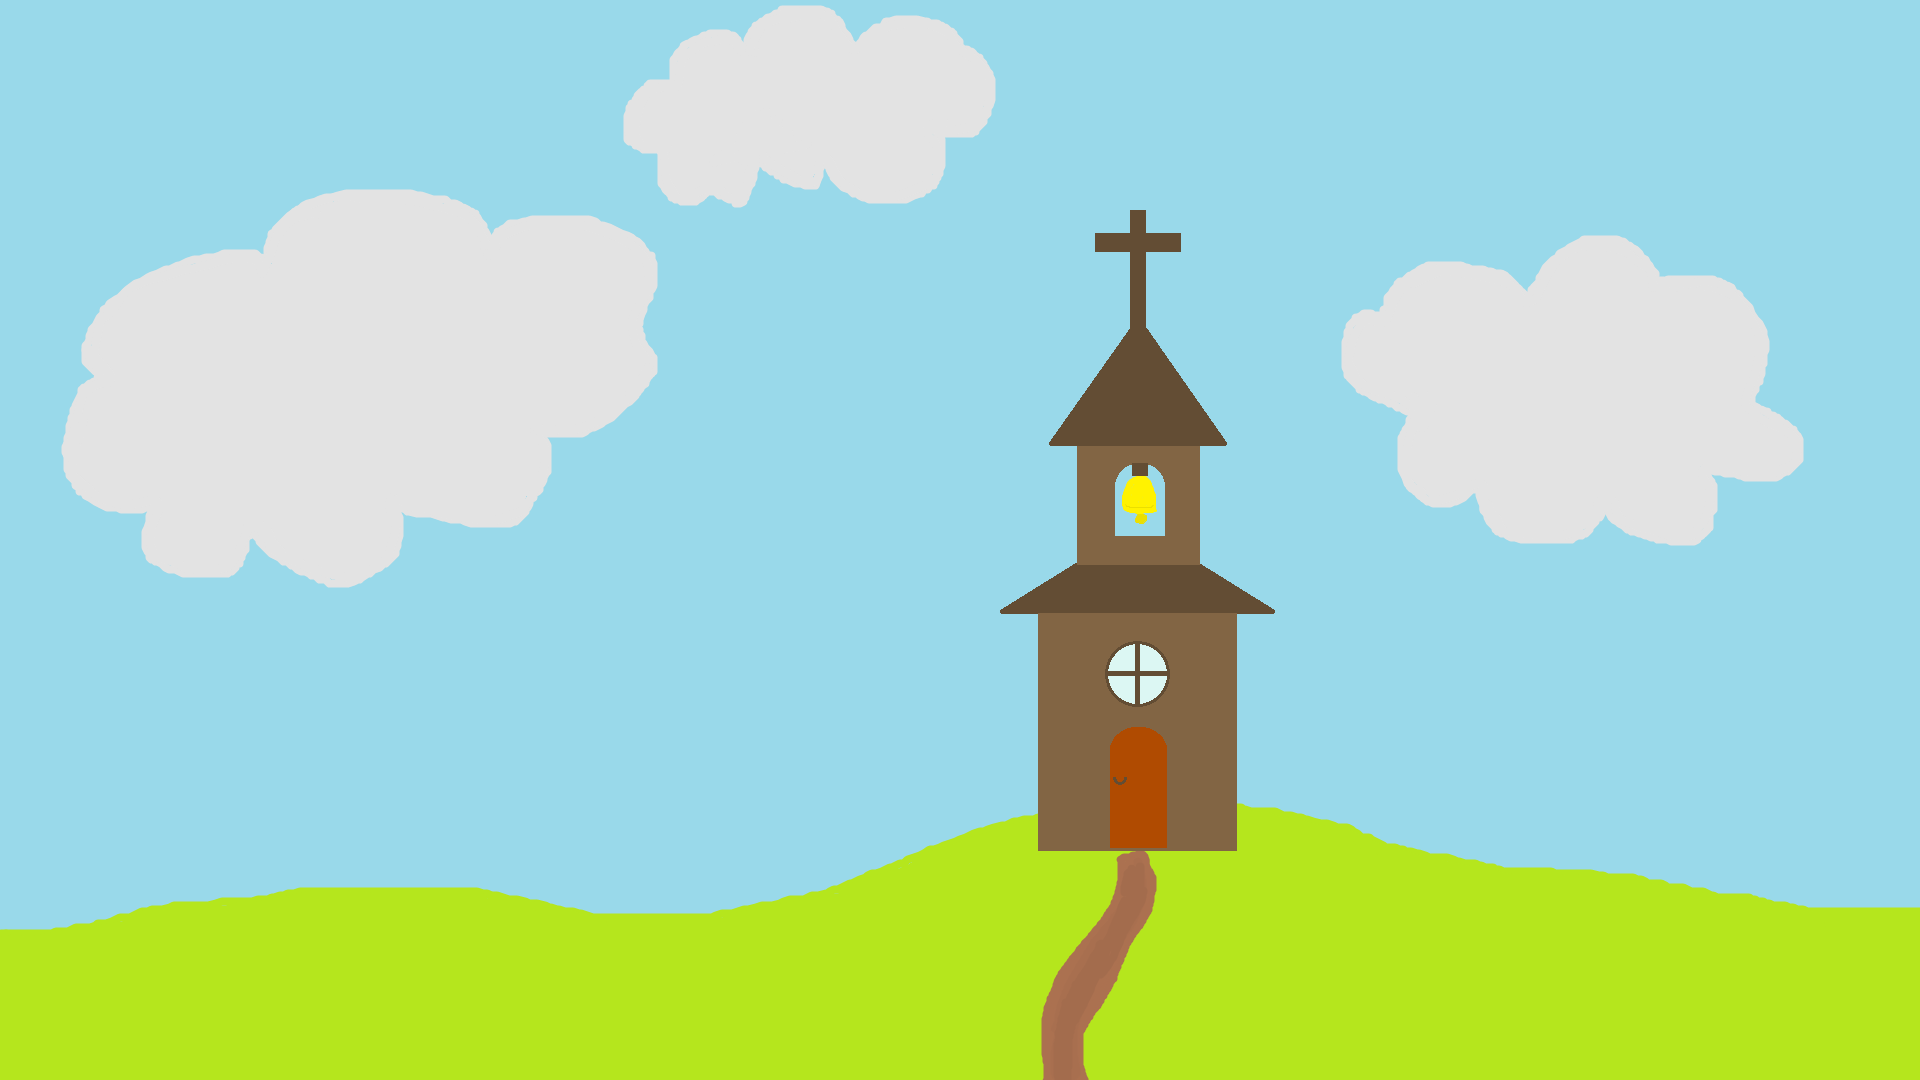
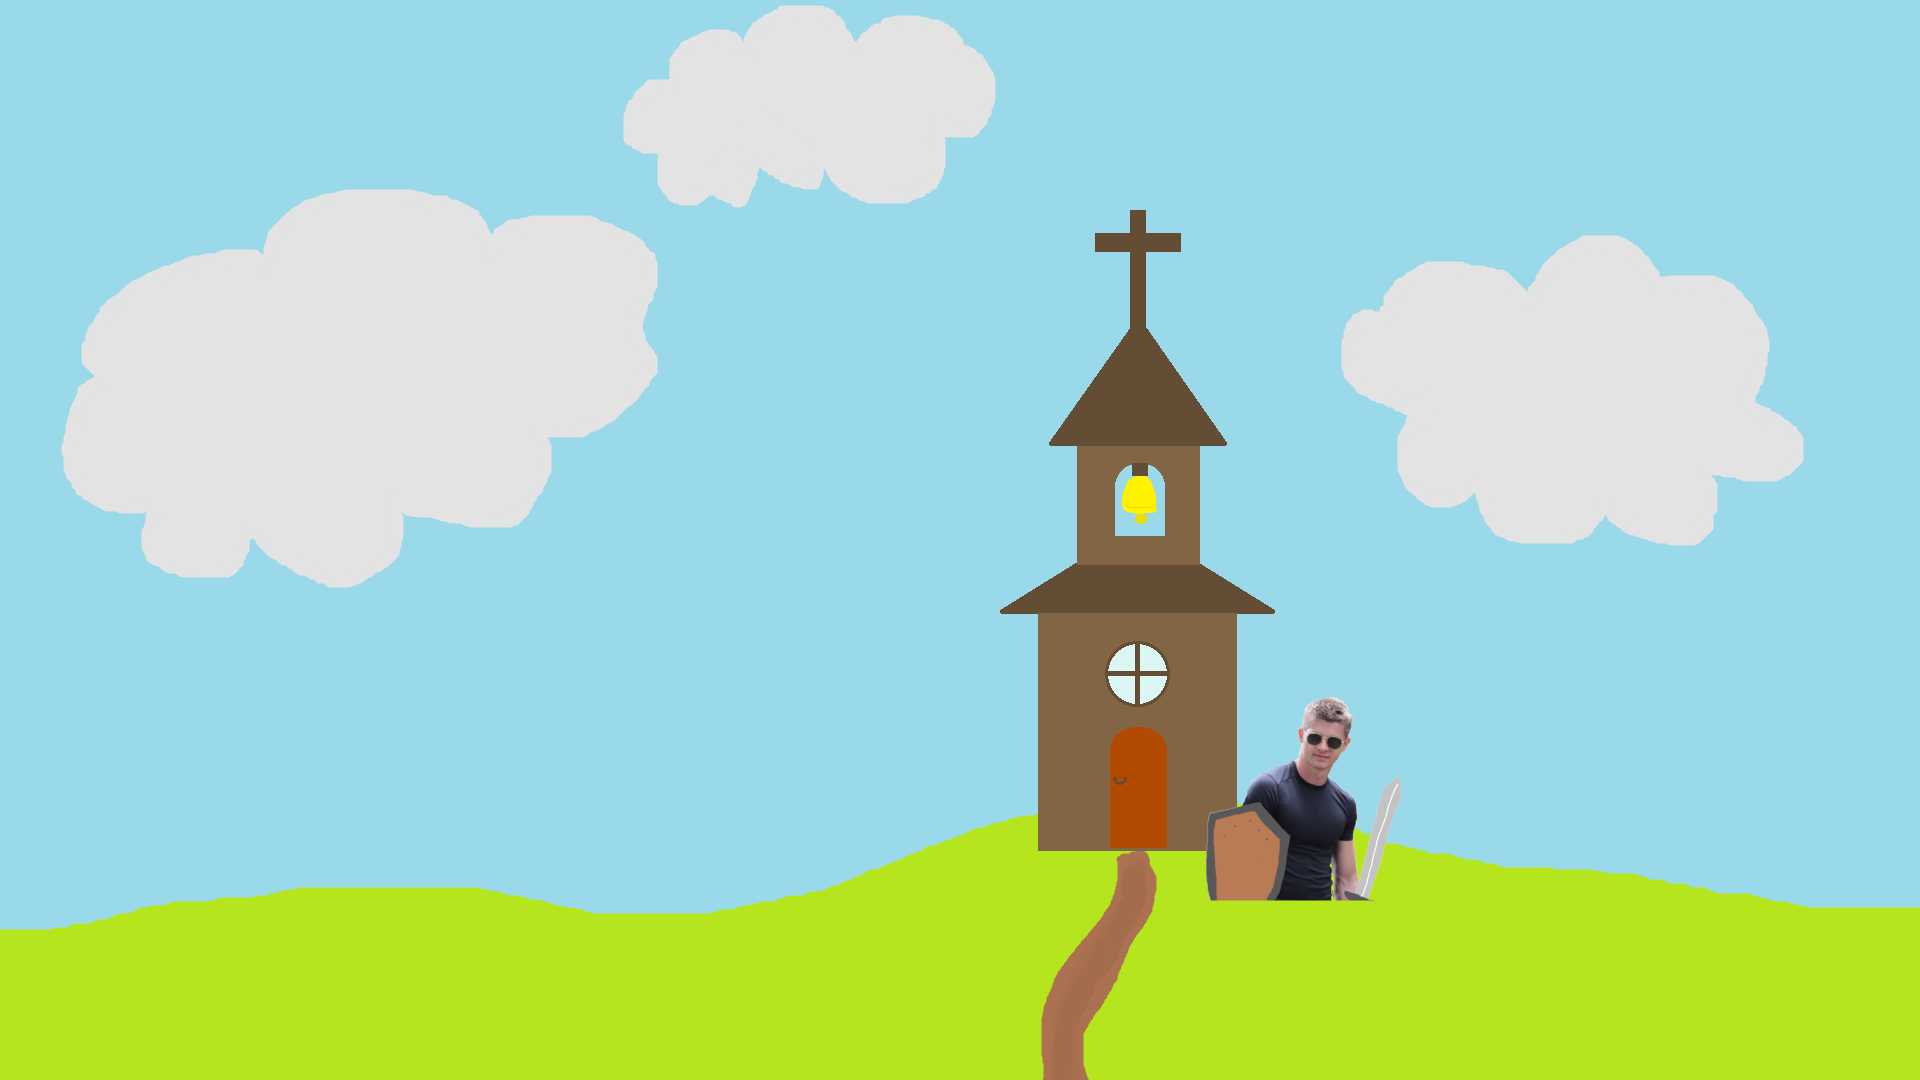
init

Changed region(s): [[0.625, 0.6417, 0.75, 0.8556]]

diff --git a/res/js/main.js b/res/js/main.js
@@ -21,6 +21,8 @@ const musicMutedButton = document.getElementById("mutedMusic");
 const audio = document.getElementById("audio");
 const audio2 = document.getElementById("audio2");
 const audio3 = document.getElementById("audio3");
+const audio4 = document.getElementById("audio4");
+const audio5 = document.getElementById("audio5");
 const deathCounter = document.getElementById("deathCounter");
 const menuButton = document.getElementById("menu");
 const main = document.getElementById("main");
@@ -36,6 +38,7 @@ const description = document.getElementById("description");
 const kostelButton = document.getElementById("church");
 const goInside = document.getElementById("goInside");
 const goBack = document.getElementById("goBack");
+const mainChar = document.getElementById("mainChar");
 
 let maxHp = 20;
 let hp = 20;
@@ -91,6 +94,7 @@ window.onload = () => {
     if (hp <= 0) {
       enemy.style.display = "none";
       deadEnemy.style.display = "block";
+      audio5.play();
 
       hp = Math.min(0);
       money += maxMoney;
@@ -116,6 +120,11 @@ window.onload = () => {
 enemy.onclick = () => {
   if (hp > 0) {
     hp -= damage;
+    audio4.play();
+    mainChar.style.marginLeft = "55%";
+    setTimeout(() => {
+      mainChar.style.margin = "0 auto";
+    }, 100);
   }
   enemy.style.transform = "scale(0.9)";
   counter.innerHTML = `<img src="./res/img/hp.png" alt="">: ${hp}/${maxHp}`;
@@ -275,6 +284,7 @@ musicMutedButton.onclick = () => {
   musicMutedButton.style.display = "none";
   musicButton.style.display = "block";
 };
+
 menuButton.onclick = () => {
   if (x.matches && kostelButton.style.display == "none") {
     main.style.display = "none";
@@ -423,6 +433,7 @@ shop.onclick = () => {
     kostelButton.style.display = "none";
   }
 };
+
 backButton2.onclick = () => {
   if (x.matches) {
     hospoda.style.display = "block";
@@ -485,6 +496,7 @@ goInside.onclick = () => {
   body.style.backgroundImage = "url(./res/img/insideKostel.jpg)";
   menuButton.style.display = "none";
 };
+
 goBack.onclick = () => {
   audio3.pause();
   audio3.currentTime = 0;

diff --git a/index.html b/index.html
@@ -16,18 +16,24 @@
     </div>
     <div id="main">
       <div id="obal">
-        <img src="./res/img/mainChar.jpg" alt="" id="mainChar" />
-        <img id="enemy" src="./res/img/negr.png" alt="" />
-        <img src="./res/img/negr2.png" alt="" id="deadEnemy" />
+        <div id="flex1">
+          <img src="./res/img/mainChar.jpg" alt="" id="mainChar" />
+        </div>
+        <div id="flex2">
+          <img id="enemy" src="./res/img/negr.png" alt="" />
+          <img src="./res/img/negr2.png" alt="" id="deadEnemy" />
+        </div>
       </div>
       <p id="counter"><img id="hp" src="./res/img/hp.png" alt="" />: 20/20</p>
       <audio src="./res/img/tutututu.mp3" id="audio" loop="loop"></audio>
       <div id="verze">
-        <div>Verze 1.5</div>
+        <div>Verze 1.5.1</div>
         <div>Made by: Pavel Mík</div>
         <div>Graphics and music: Tadeáš Mejzlík a Matěj Landa</div>
       </div>
       <audio id="audio3" src="./res/img/kostel.mp3"></audio>
+      <audio id="audio4" src="./res/img/hit.mp3"></audio>
+      <audio src="./res/img/death.mp3" id="audio5"></audio>
     </div>
     <div id="mesto">
       <button id="church">To Church</button>

diff --git a/res/css/style.css b/res/css/style.css
@@ -172,11 +172,18 @@ body {
 }
 #obal{
     display: flex;
-    margin-top: 90px;
+    margin-top: 230px;
 }
 #mainChar{
     display: block;
+    transition: ease 2.5;
     margin: 0 auto;
+}
+#flex1{
+    flex: 50%;
+}
+#flex2{
+    flex: 50%;
 }
 #goInside{
     display: none;
